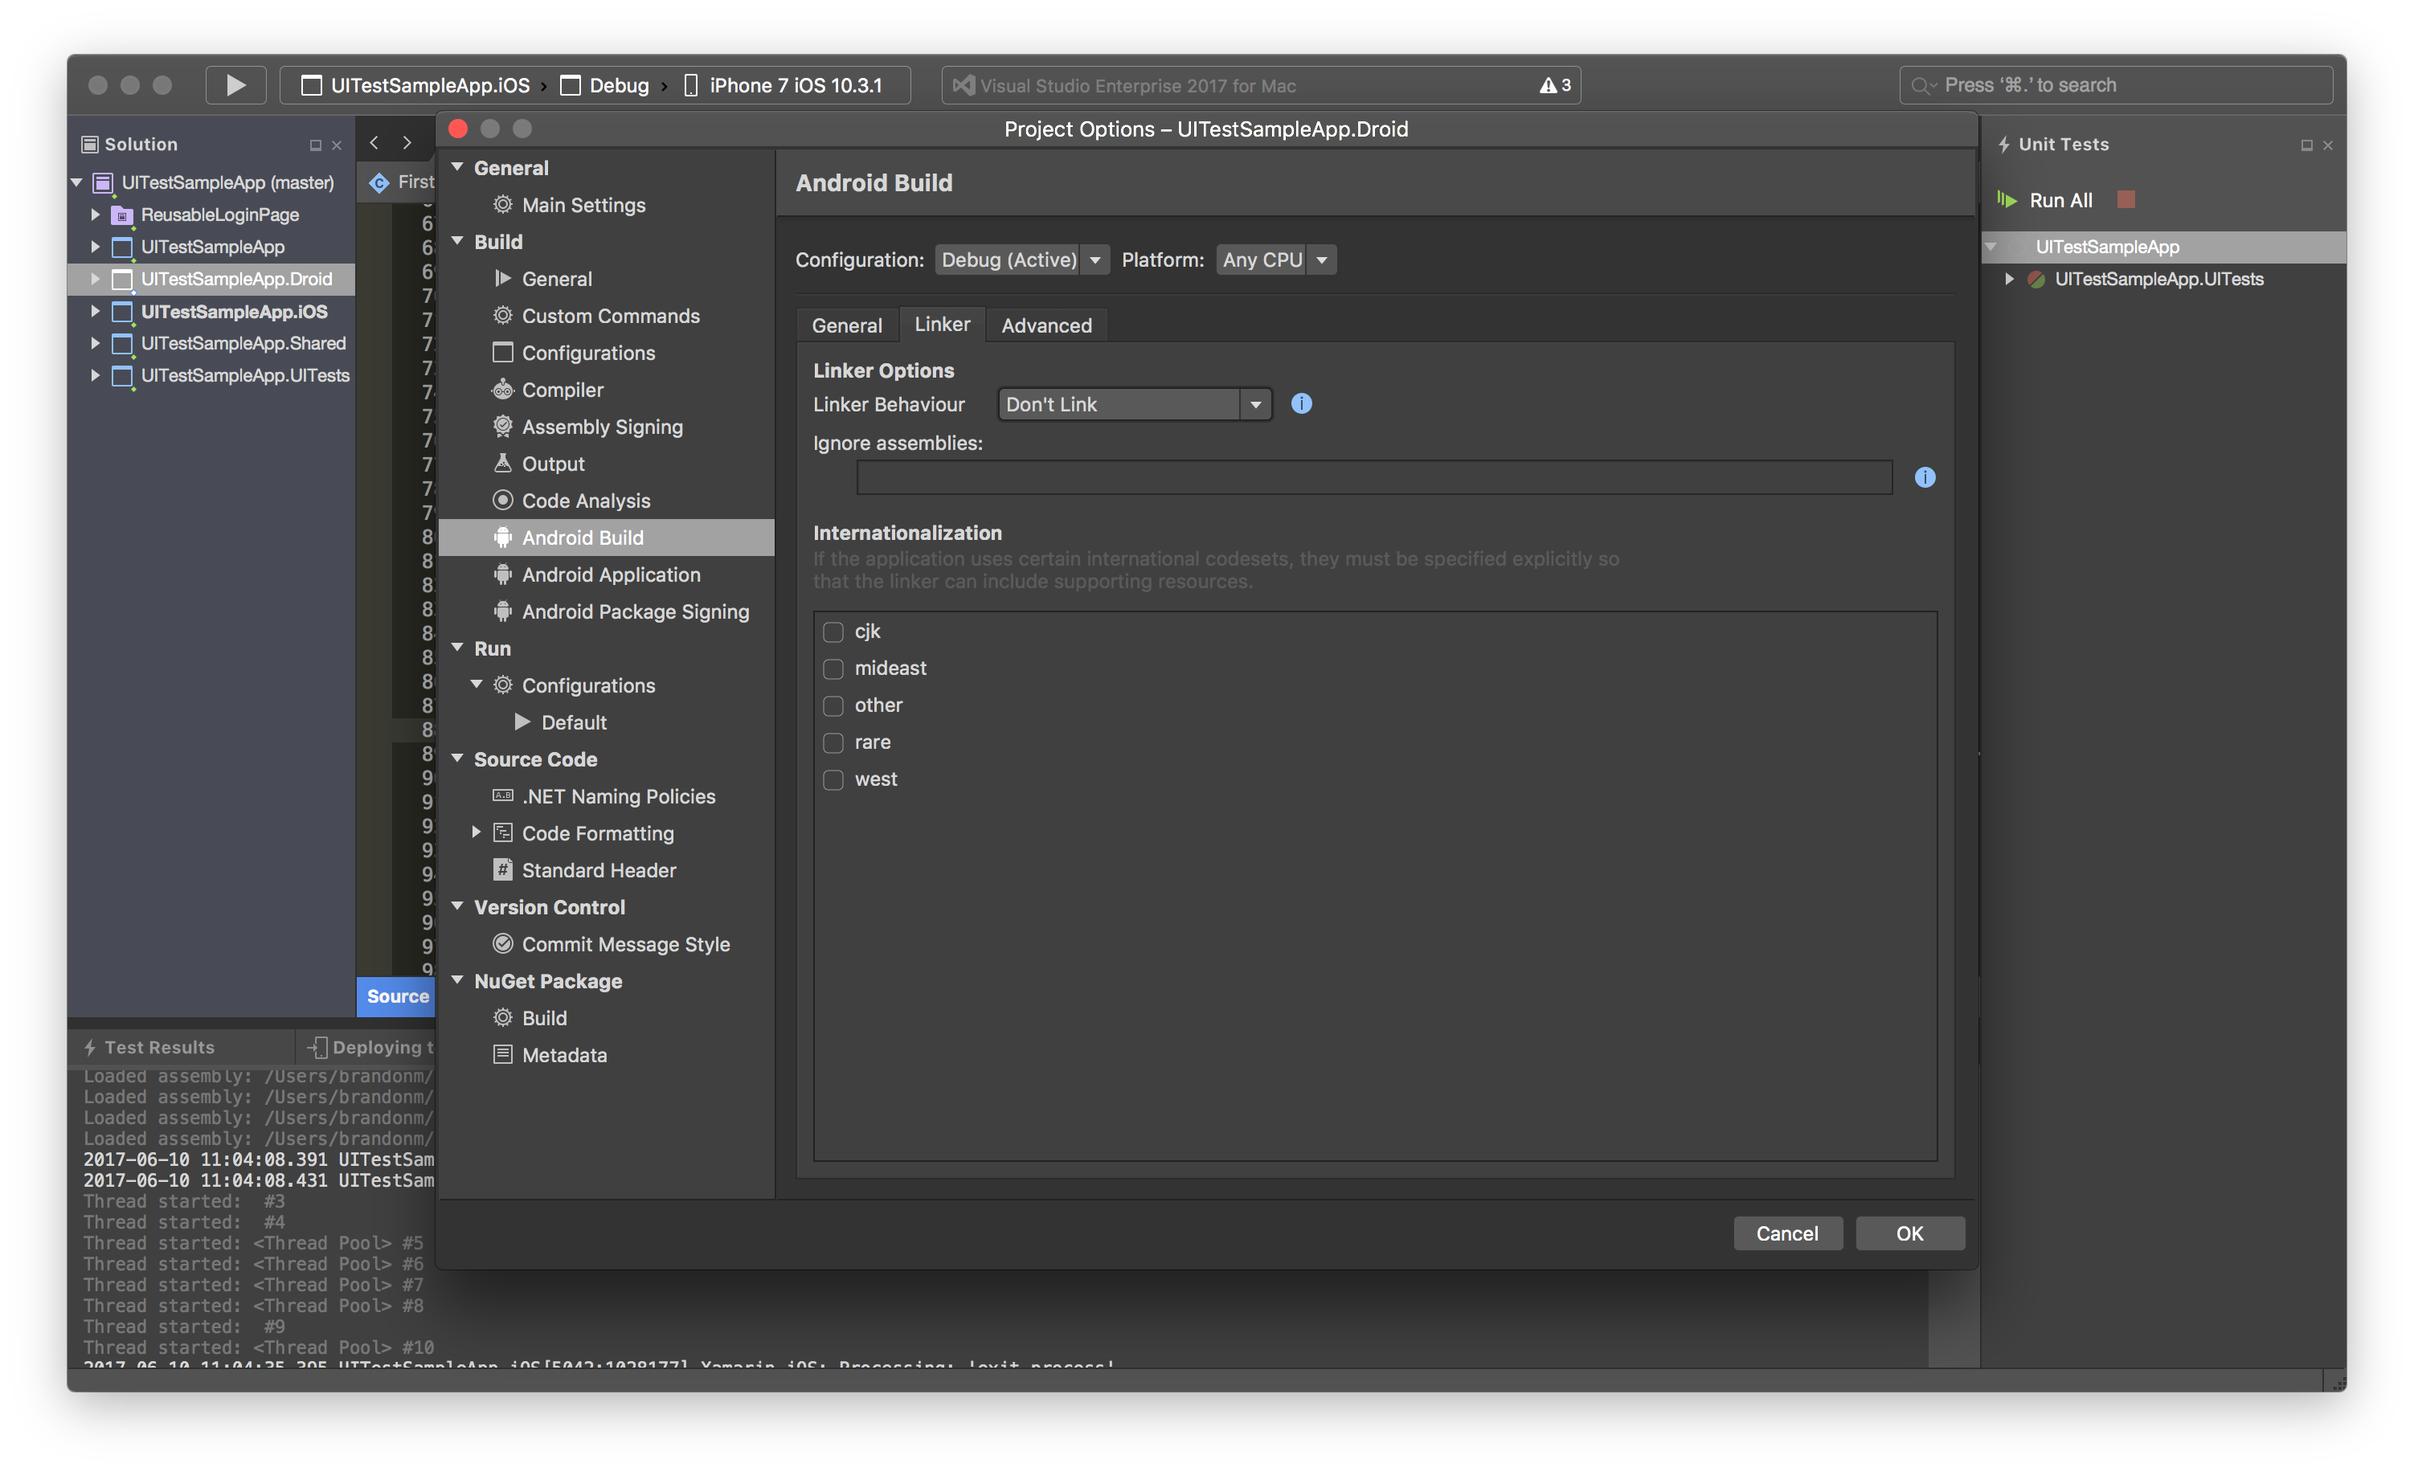
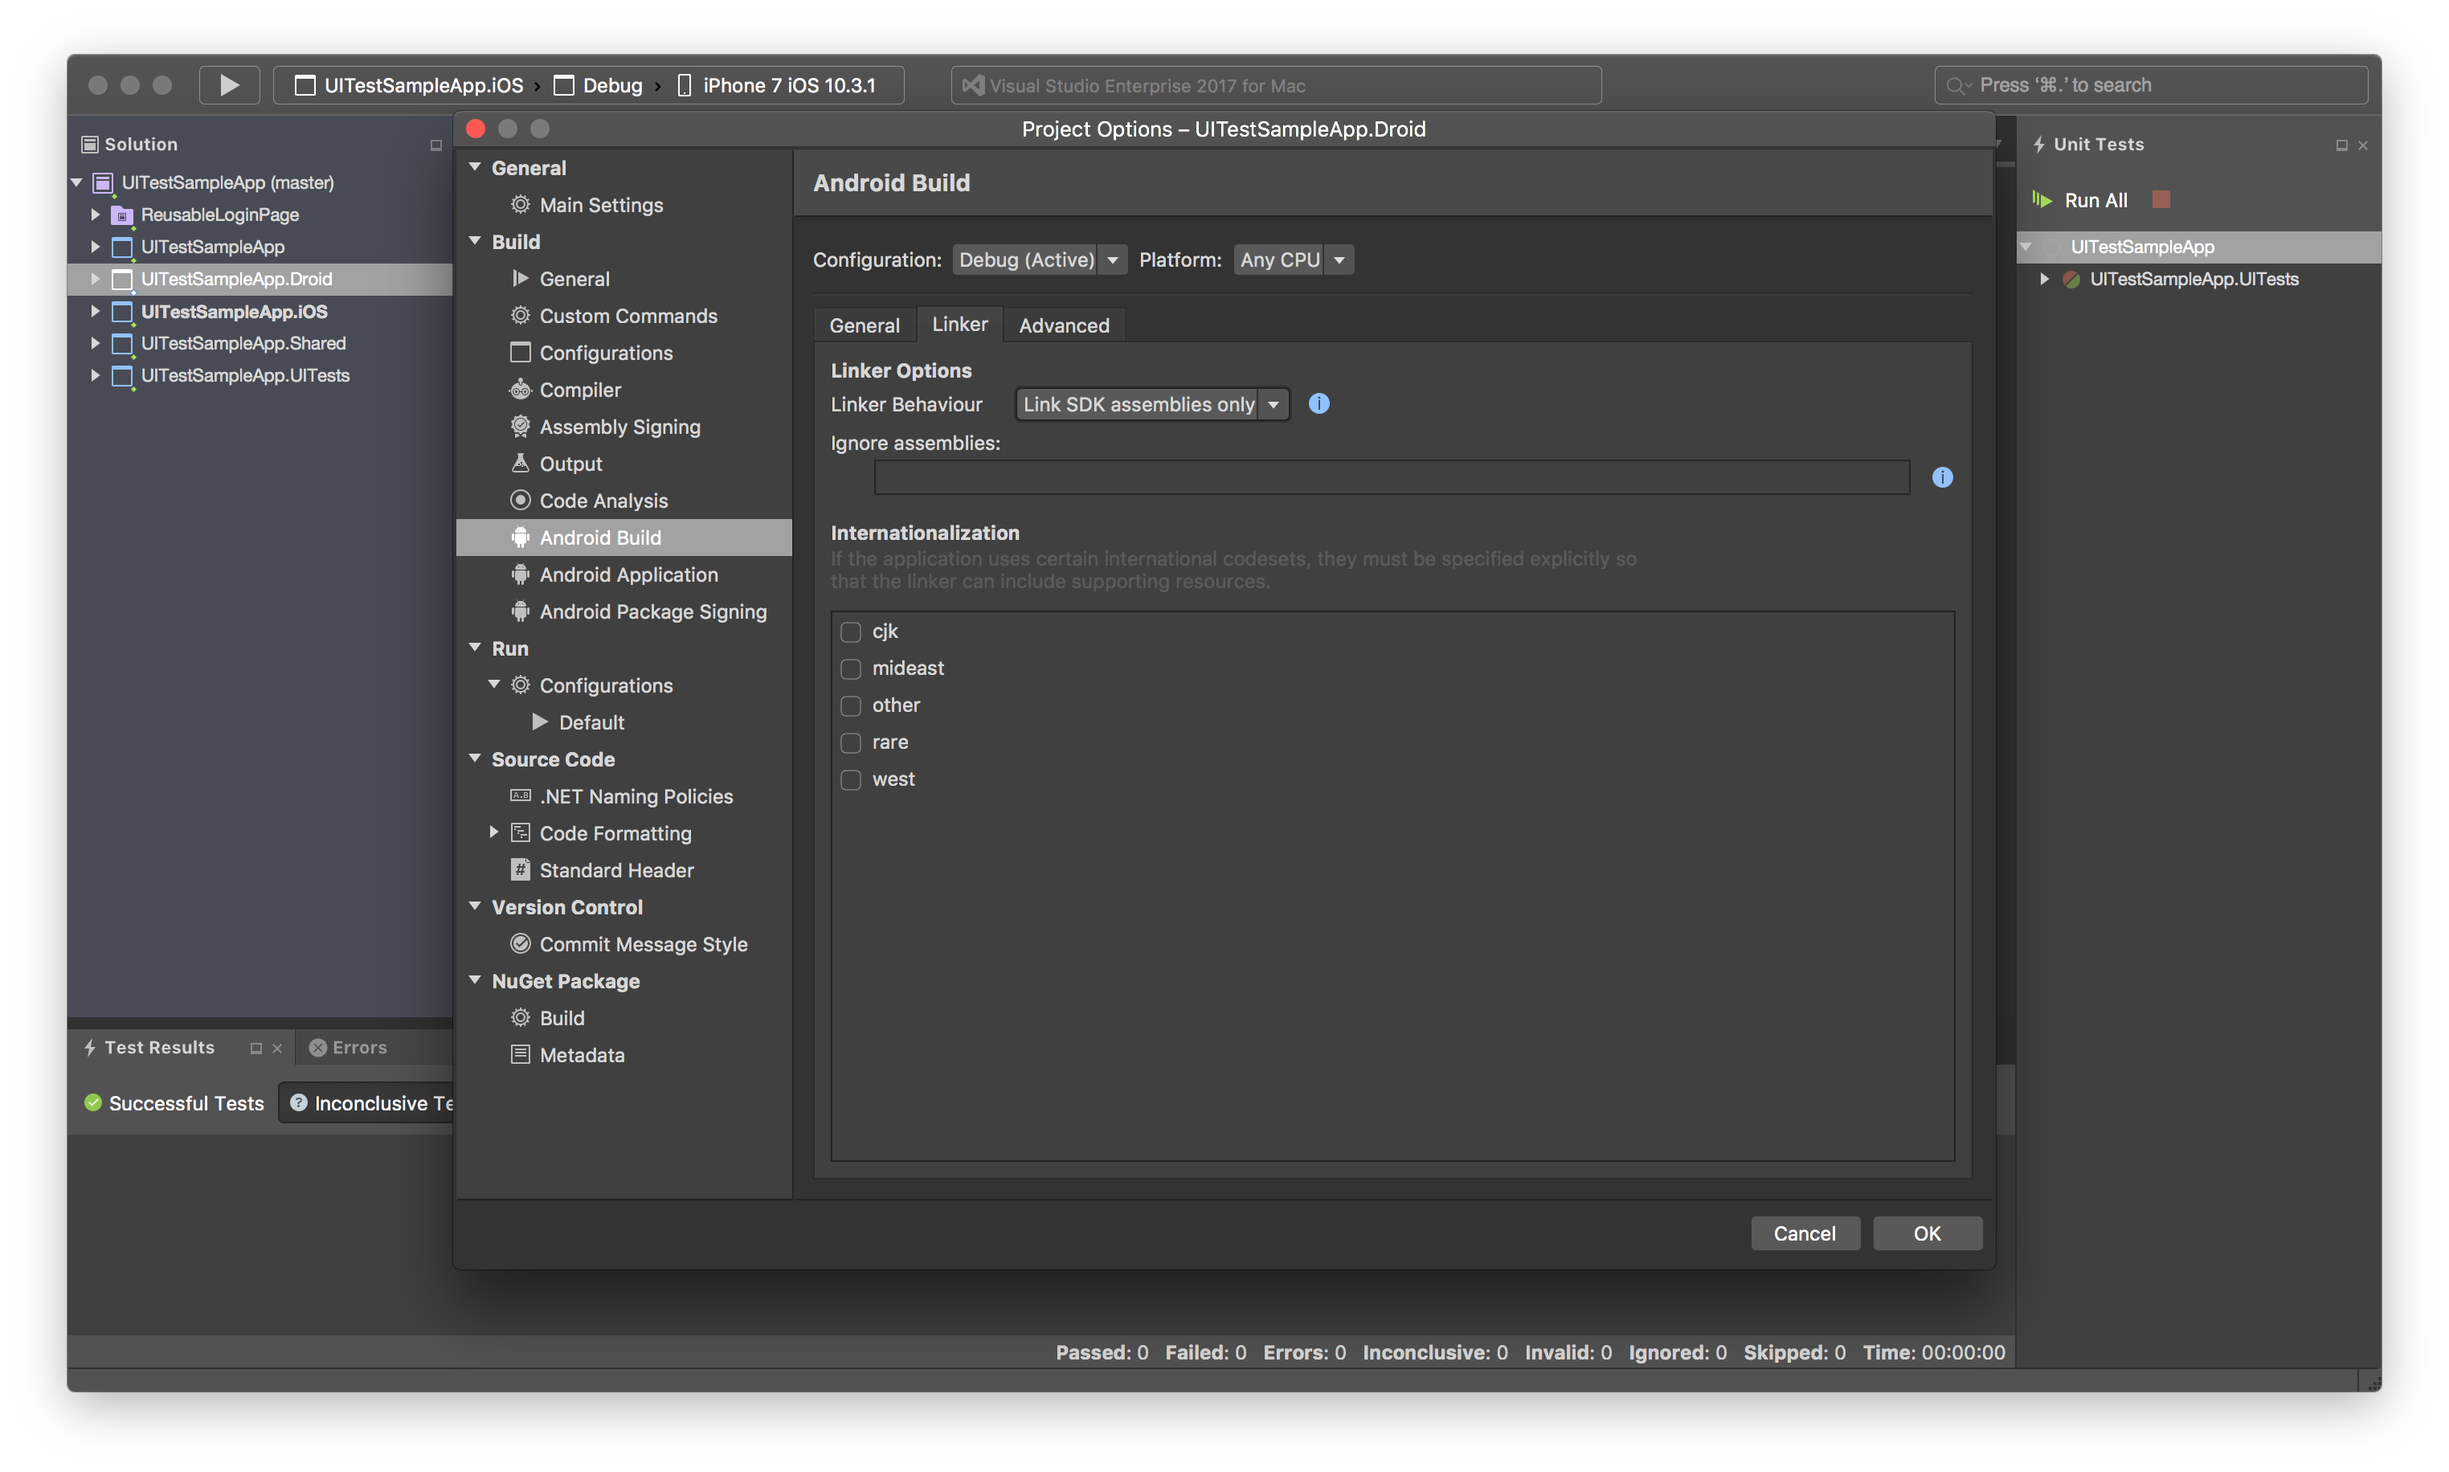
Updated Linker, Mono Shared Runtime & Fast Assembly Deployment

diff --git a/README.md b/README.md
@@ -16,38 +16,43 @@ I highly recommend utilizing the Linker for Release Configuration builds; `Link 
 
 ![iOS Build Settings](./Images/iOS_Build_Settings.png)
 
-- Linker behavior: Don’t Link
-  - Linking will cause compilation to take longer
-- Supported architecture: x86_64
-  - Selecting multiple architectures will cause compilation to take longer
-  - X86_64 works for iPhone Simulators 5s - 7
-  - i386 works for iPhones earlier than the iPhone 5s
+- Linker behavior: Don’t Link for Simulator Builds, Link on Devices Builds
+  - The Linker will reduce the amount of managed code which means less native code to AOT compile
+  - Simulator builds don't AOT compile, but Device builds do AOT compile
 - Enable incremental builds
-  - This will allow the compiler to only compile code that has changed
+  - Allows the AOT compiler to compile only the code that changed
 - Enable device-specific builds
   - This encourages the compiler to only compile for the targeted device
+  - This allows you to select many supported architectures
+  - Selecting multiple architectures without enabling device-specific builds will cause compilation to take longer
+    - X86_64 Architecture works for iPhone Simulators 5s - 7
+    - i386 Architecture works for iPhone Simulators earlier than the iPhone 5s
 
 # Android Build Settings
 
 ## General
 
-![iOS Build Settings](./Images/Android_Build_Settings_General.png)
+![Android Build Settings, General](./Images/Android_Build_Settings_General.png)
 
 - Use Shared Mono Runtime
-  - This will install mono on the targeted device and allows the compiler to only compile the managed code
+  - This will install Mono on the targeted device
+  - Installing Mono on the device means that Mono doesn't have to be bundled in the APK, making the APK quicker to compile and deploy
 - Fast Assembly Deployment
-  - Doesn’t compile assemblies and deploys assemblies directly to the device
+  - Deploys assemblies to a directory on the device instead of bundling them in the APK
+  - The APK compiles faster, is smaller, and  is faster to deploy
+  - Allows Xamarin to deploy individual changed assemblies instead of rebuilding/redeploying the entire APK
 
 ## Linker
 
-![iOS Build Settings](./Images/Android_Build_Settings_Linker.png)
+![Android Build Settings, Linker](./Images/Android_Build_Settings_Linker.png)
 
-- Linker Behavior: Don’t Link
-  - Linking will cause compilation to take longer
+- Linker Behavior: Link SDK assemblies only
+  - The Linker will reduce the amount of managed code which means less native code to compile
+  - Because Android uses emulators which behave similarly to Android devices, there isn't a recommended difference between Emulator & Device builds for the Linker settings like there is for iOS
 
 ## Advanced
 
-![Android Advanced Build Settings](./Images/Android_Build_Settings_Advanced.png)
+![Android Build Settings, Advanced](./Images/Android_Build_Settings_Advanced.png)
 
 - Supported ABIs
   - Select the ABI for the targeted device
